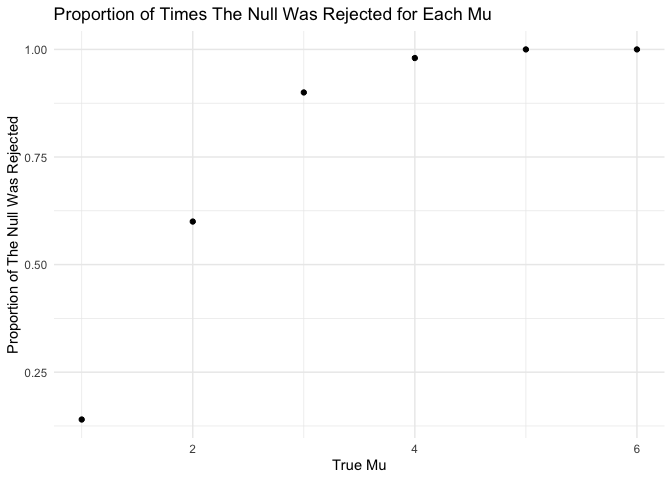
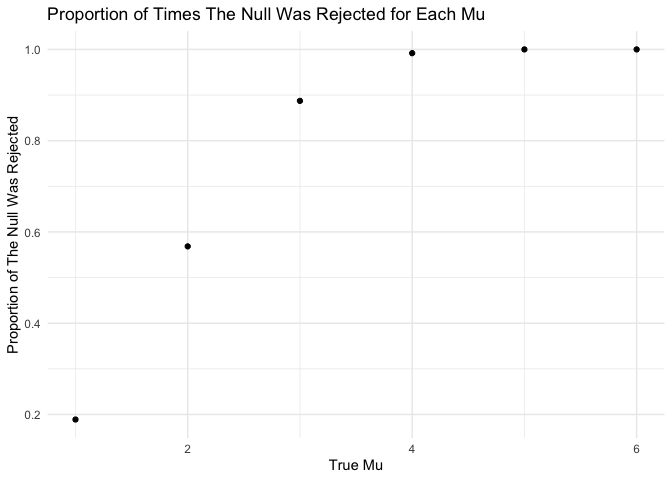
Updated the size of the dataset to 5000 and regenerate the results

diff --git a/p8105_hw5_ys3637.md b/p8105_hw5_ys3637.md
@@ -232,11 +232,11 @@ muhat_p_value <- function(n = 30, mu, sigma = 5) {
     p.values
 
 ``` r
-rerun(50, muhat_p_value(mu = 0)) %>%
+rerun(5000, muhat_p_value(mu = 0)) %>%
         bind_rows
 ```
 
-    ## # A tibble: 50 × 2
+    ## # A tibble: 5,000 × 2
     ##    estimate p.value
     ##       <dbl>   <dbl>
     ##  1    0.412  0.629 
@@ -249,7 +249,7 @@ rerun(50, muhat_p_value(mu = 0)) %>%
     ##  8   -1.19   0.209 
     ##  9    0.122  0.887 
     ## 10    0.684  0.472 
-    ## # … with 40 more rows
+    ## # … with 4,990 more rows
 
 -   Repeat for true mu is equal to 1, 2, 3, 4, 5, 6
 
@@ -258,27 +258,27 @@ rerun(50, muhat_p_value(mu = 0)) %>%
 results_df <-
   tibble(true_mu = c(1, 2, 3, 4, 5, 6)) %>% 
   mutate(
-    output_lists = map(.x = true_mu, ~rerun(50, muhat_p_value(mu = .x))),
+    output_lists = map(.x = true_mu, ~rerun(5000, muhat_p_value(mu = .x))),
     estimate_dfs = map(output_lists, bind_rows)) %>% 
   select(-output_lists) %>% 
   unnest(estimate_dfs)
 results_df
 ```
 
-    ## # A tibble: 300 × 3
+    ## # A tibble: 30,000 × 3
     ##    true_mu estimate p.value
     ##      <dbl>    <dbl>   <dbl>
-    ##  1       1    1.28    0.179
-    ##  2       1    1.52    0.122
-    ##  3       1    0.689   0.476
-    ##  4       1    0.503   0.606
-    ##  5       1    0.808   0.402
-    ##  6       1   -0.108   0.896
-    ##  7       1   -0.181   0.872
-    ##  8       1    1.92    0.118
-    ##  9       1    1.23    0.176
-    ## 10       1   -1.04    0.320
-    ## # … with 290 more rows
+    ##  1       1    1.52   0.0865
+    ##  2       1    2.11   0.0159
+    ##  3       1    2.01   0.0183
+    ##  4       1    0.165  0.839 
+    ##  5       1    0.108  0.912 
+    ##  6       1    1.56   0.0682
+    ##  7       1    2.04   0.0252
+    ##  8       1    2.40   0.0154
+    ##  9       1    2.15   0.0154
+    ## 10       1    0.500  0.634 
+    ## # … with 29,990 more rows
 
 -   Make a plot showing the proportion of times the null was rejected
     (the power of the test) on the y axis and the true value of μ on the
@@ -289,7 +289,7 @@ results_df
 results_df %>% 
   mutate(reject = ifelse(p.value < 0.05, TRUE, FALSE)) %>% 
   group_by(true_mu) %>%
-  summarize(prop_reject_null = sum(reject) / 50) %>% 
+  summarize(prop_reject_null = sum(reject) / 5000) %>% 
   ggplot(aes(x = true_mu, y = prop_reject_null)) + 
   geom_point() +
   labs(
@@ -348,3 +348,15 @@ results_df %>%
 ```
 
 ![](p8105_hw5_ys3637_files/figure-gfm/unnamed-chunk-12-1.png)<!-- -->
+
+For the first plot that we include all the dataset, we can see that the
+sample average mu is approximately equal to the true mu. However, in the
+second plot, which only include **samples for which the null was
+rejected**, the sample average mu is not always approximately equal to
+the true mu. When the true mu increases, like 4, 5, 6, the sample
+average mus are very close to the true mu. But when the true mu is
+around 1, 2, the sample average mus are not approximately equal to the
+true mu. This result goes along with previous plot. Since when effect
+size is small, we cannot easily reject the null, and in the rejected
+samples, a small effect size means a little difference on mu will result
+in the difference of average mu and true mu.
